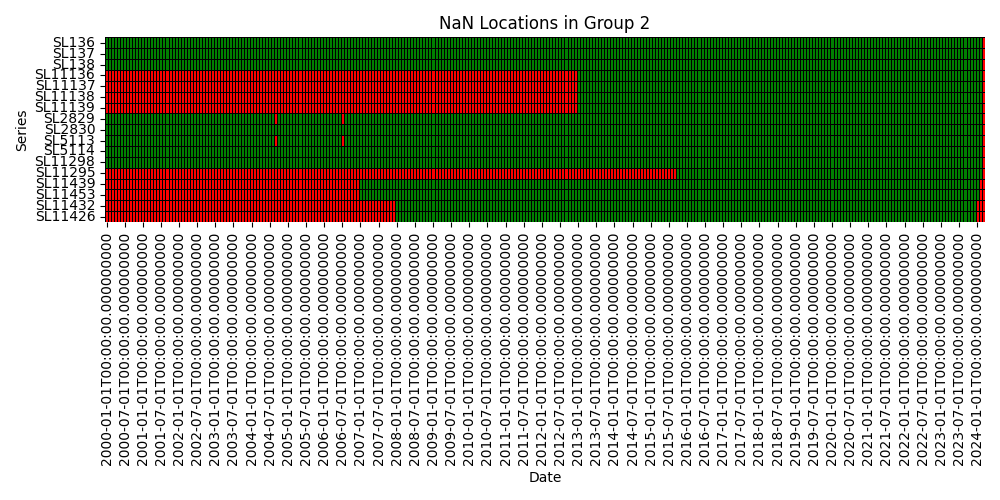
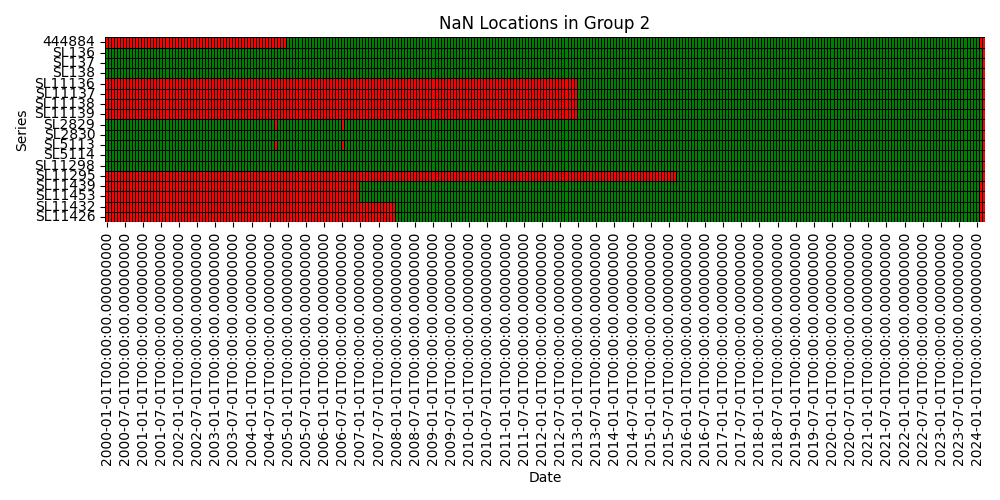
introduced inegi api

Changed region(s): [[0.031, 0.06, 0.992, 0.45]]

diff --git a/src/utils.py b/src/utils.py
@@ -4,19 +4,41 @@ import yaml
 import random
 import numpy as np
 import pandas as pd
+import os
 
[1 lines of base64/hex data omitted]
-def data_from_series(base_url, series, unique_series=True):
+def data_from_banxico(series):
     # Create session and add necessary headers
     session = requests.Session()
     headers = {'Bmx-Token': random.choice(API_KEY), 'Accept': 'application/json'}
     # Add desired series to request
-    requested_data = base_url + series + '/datos'
-    response = session.get(requested_data, headers=headers).json()
+    url = f"https://www.banxico.org.mx/SieAPIRest/service/v1/series/{series}/datos"
+    response = session.get(url, headers=headers).json()
     # Return the response
-    if unique_series:
-        return response['bmx']['series'][0]
-    return response
+    df = pd.DataFrame(response['bmx']['series'][0]['datos'])
+    df.rename(columns={"dato": series}, inplace=True)
+
+    return df
+
+
+INEGI_API_KEY = os.environ.get("INEGI_API_KEY")
+def data_from_inegi(series):
+    url = f"https://www.inegi.org.mx/app/api/indicadores/desarrolladores/jsonxml/INDICATOR/{series}/es/0700/false/BIE/2.0/{INEGI_API_KEY}?type=json"
+    session = requests.Session()
+    response = session.get(url).json()
+
+    df = pd.DataFrame(response['Series'][0]['OBSERVATIONS'])[['TIME_PERIOD', 'OBS_VALUE']]
+
+    # Convert TIME_PERIOD column to datetime
+    df['TIME_PERIOD'] = pd.to_datetime(df['TIME_PERIOD'], format='%Y/%m')
+
+    # Format datetime as 'DD/MM/YYYY'
+    df['TIME_PERIOD'] = df['TIME_PERIOD'].dt.strftime('%d/%m/%Y')
+
+    df = df.rename(columns={'TIME_PERIOD': 'fecha','OBS_VALUE': series})
+
+    return df
+
 
 
 def read_yaml(yaml_file):

diff --git a/src/extract.py b/src/extract.py
@@ -6,7 +6,7 @@ from datetime import date
 from utils import *
 
 
-def extract(base_url, series):
+def extract(series):
     """
     Extracts the data from the API and merges it into a single DataFrame.
     It also creates a log with possible warnings during this process.
@@ -29,17 +29,21 @@ def extract(base_url, series):
     # Initialize an empty DataFrame
     df = pd.DataFrame()
 
-    for serie in series:
+    for serie, info in series.items():
+
         try:
-            # Retrieve data for the series
-            temp_df = pd.DataFrame(data_from_series(base_url, serie)['datos'])
+            if info['source'] == 'banxico':
+                # Retrieve data for the series
+                temp_df = data_from_banxico(serie)
+            else:
+                temp_df = data_from_inegi(serie)
+
             
             # Handle the first series separately to initialize the DataFrame
             if df.empty:
-                df = temp_df.rename(columns={"dato": serie})
+                df = temp_df
             else:
                 # Merge the series into the DataFrame
-                temp_df.rename(columns={"dato": serie}, inplace=True)
                 df = df.merge(temp_df, on='fecha', how='outer')
 
             # Check if the series is not outdated (last observation is last month)

diff --git a/src/test.py b/src/test.py
@@ -7,7 +7,7 @@ import seaborn as sns
 pd.options.display.max_rows = None
 
 # Read the CSV file into a DataFrame
-df = pd.read_csv('data/sliced_2024_03_21.csv')
+df = pd.read_csv('data/sliced_2024_03_25.csv')
 
 df['fecha'] = pd.to_datetime(df['fecha'], format='%Y-%m-%d')
 df.set_index('fecha', inplace=True)
@@ -29,7 +29,7 @@ def plot_nan_locations(df_group, group_name):
     plt.show()
 
 df_1 = df[['SR17536','SR17537','SR17538','SR17539','SR17540','SR16967']]
-df_2 = df[['SL136','SL137','SL138','SL11136','SL11137','SL11138','SL11139','SL2829','SL2830','SL5113','SL5114','SL11298','SL11295','SL11439','SL11453','SL11432','SL11426']]
+df_2 = df[['444884','SL136','SL137','SL138','SL11136','SL11137','SL11138','SL11139','SL2829','SL2830','SL5113','SL5114','SL11298','SL11295','SL11439','SL11453','SL11432','SL11426']]
 df_4 = df[['SR17449','SR17450','SR17451','SR17452','SR17453','SR16882','SR16894','SR16906','SR16918','SR2761','SR2768','SR2775','SR2782']]
 df_5 = df[['SF311408','SF311418','SF311433','SF311438','SF29652','SF235719','SF235716']]
 df_6 = df[['SF61745','SF282','SF3338','SF3270','SF3367','SF17990','SF18608','SF30057','SF57805','SF57771','SF57923','SF229267','SR28']]

diff --git a/src/main.py b/src/main.py
@@ -7,12 +7,10 @@ from df_utils import order, save, stationarize_df, slice_df_from_date, remove_ou
 if __name__ == "__main__":
 
     # Read yaml file containing the base url, and the series ID, transformation, and desired name in the df
-    settings = read_yaml("src/settings.yaml")
-    base_url = settings['base_url']
-    series = [key for key in settings.keys() if key != 'base_url']
+    series = read_yaml("src/settings.yaml")
 
     df = (
-        extract(base_url, series) # Extract the data from the data source API
+        extract(series) # Extract the data from the data source API
         .pipe(order) # Order the rows by date
         .pipe(save) # Save raw csv
         .pipe(set_date_index) # Turn the date column into the index of the df
@@ -25,9 +23,3 @@ if __name__ == "__main__":
     )
 
 
-'''
-SP74663:
-   transformation: 1
-SF4782:
-   transformation: 4
-'''
